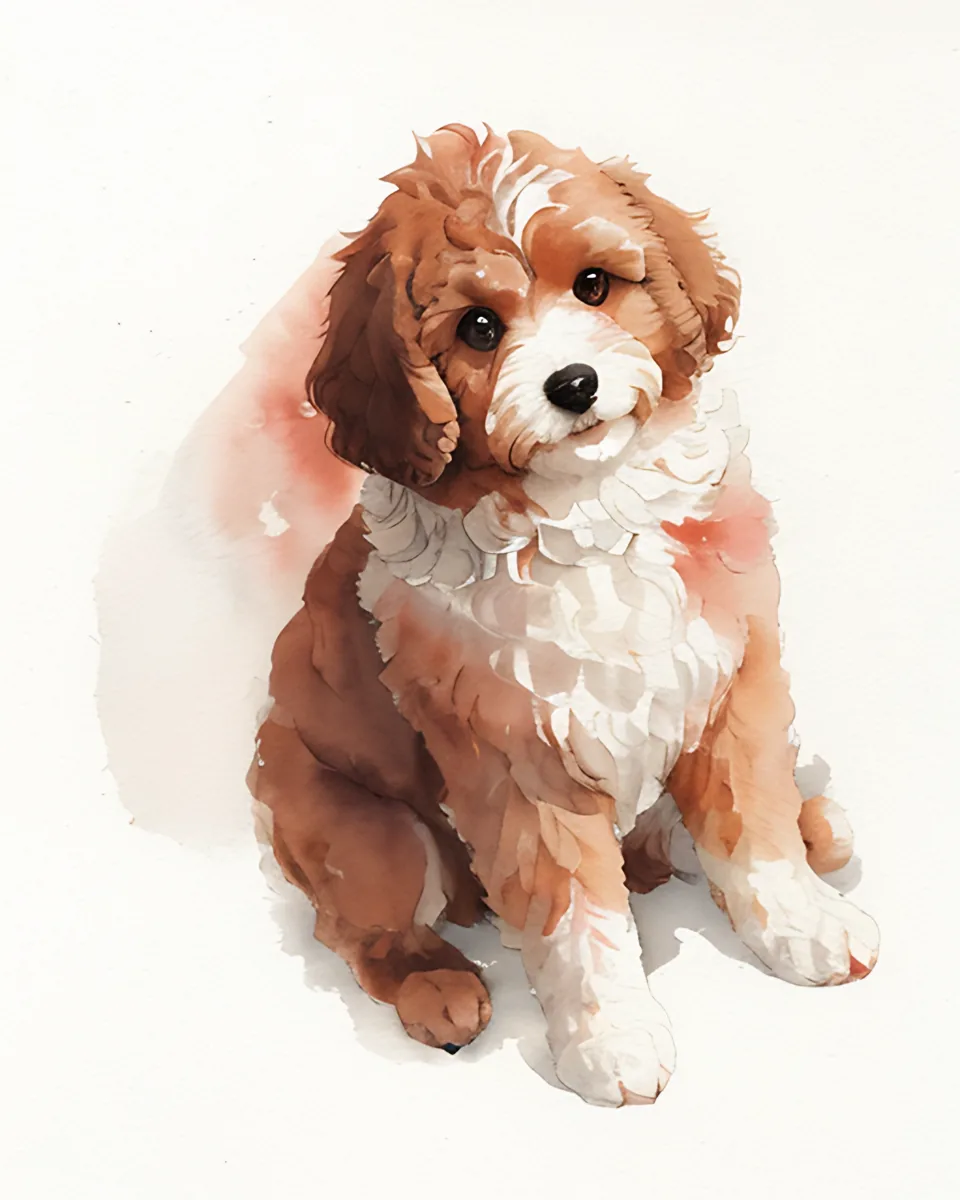
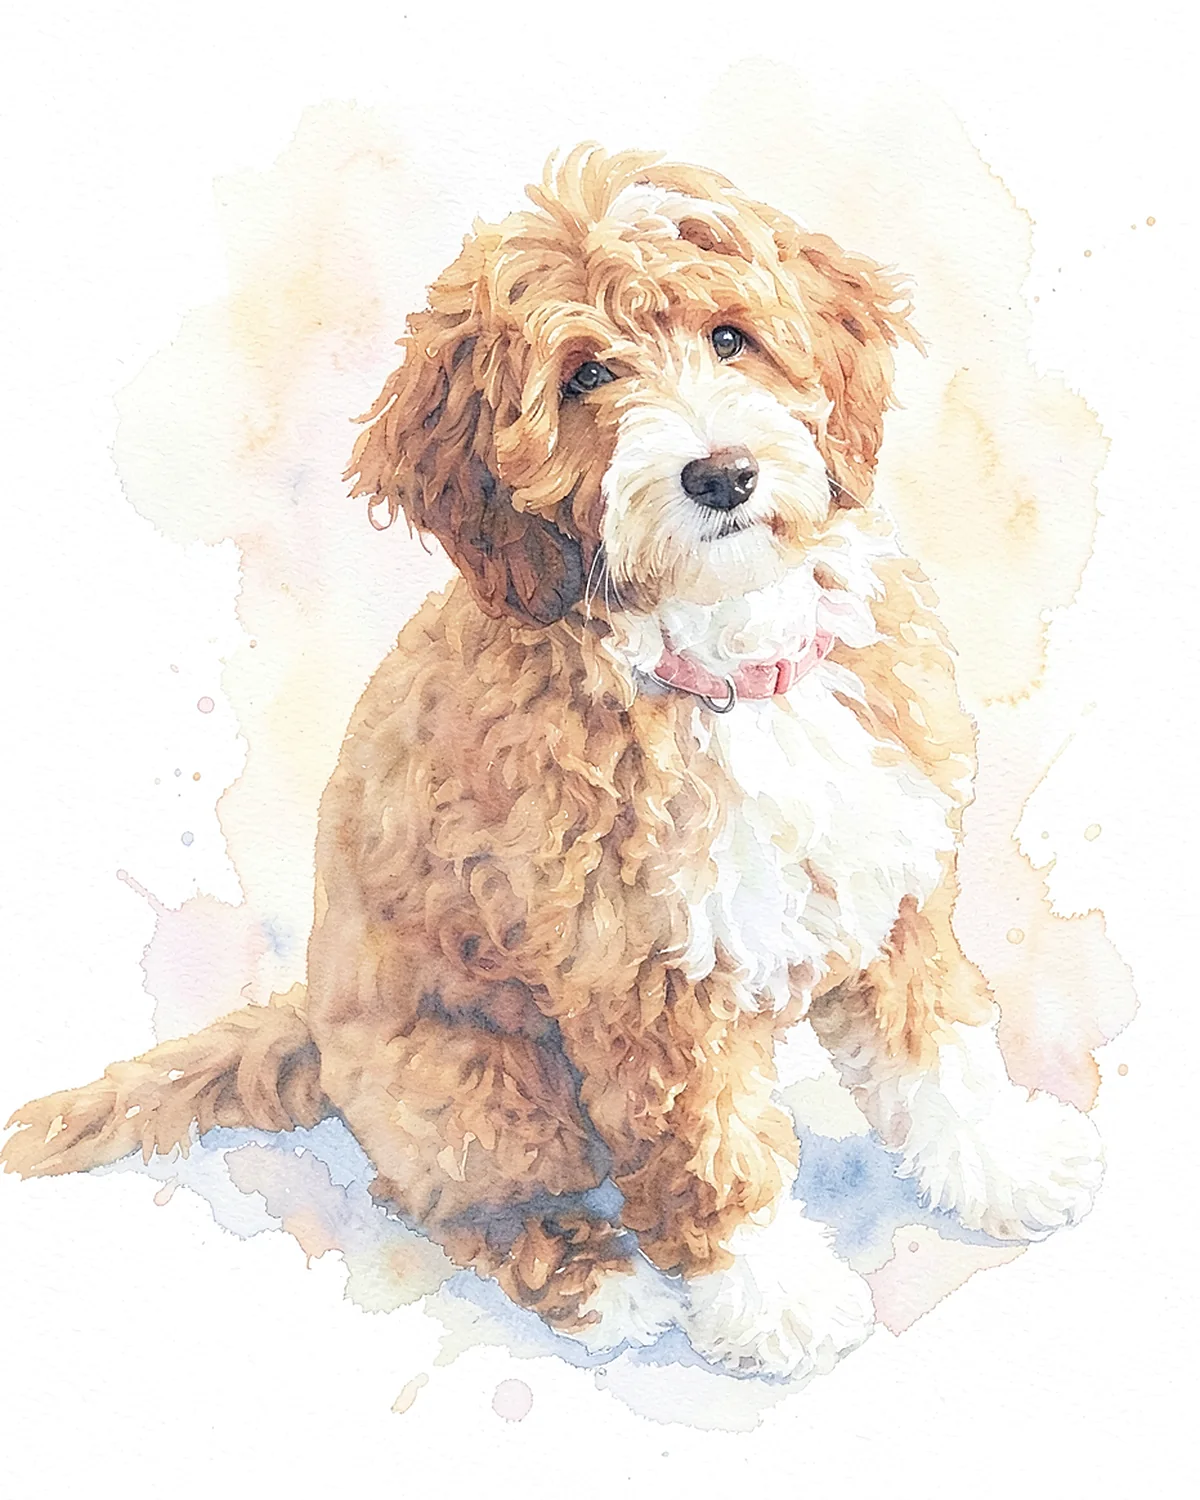
Gallery portraits 1-6 re-rendered with FLUX.2 klein
Old Master golden, pop-art frenchie, watercolor cavapoo, admiral husky,
storybook cavalier and charcoal beagle, each from the real source photo,
1200x1500 WebP.

Claude-Session: https://claude.ai/code/session_01Q1G9K9iUNWePoTgYQBX8an

diff --git a/web/public/samples/CREDITS.md b/web/public/samples/CREDITS.md
@@ -38,19 +38,21 @@ anyway. None are Unsplash+ photos. Local copies (4:5 crops) live in `web/scripts
 | admiral.webp | The Admiral | Beagle | beagle.jpg | Nathanaël Desmeules | https://unsplash.com/photos/527_3nFNAPo | legacy |
 | oil-classic.webp | Old Master | Labrador Retriever | labrador.jpg | Aniket Salve | https://unsplash.com/photos/IQ3FjY2Gdho | legacy |
 | pair-2-before.webp (photo), pair-2-after.webp | Watercolor | French Bulldog | french-bulldog.jpg | Eric Tan | https://unsplash.com/photos/p6qtH9kqjt8 | FLUX.2 klein |
-| watercolor.webp, gallery-2.webp | Watercolor / Pop Art | French Bulldog | french-bulldog.jpg | Eric Tan | https://unsplash.com/photos/p6qtH9kqjt8 | legacy |
+| watercolor.webp | Watercolor | French Bulldog | french-bulldog.jpg | Eric Tan | https://unsplash.com/photos/p6qtH9kqjt8 | legacy |
+| gallery-2.webp | Pop Art | French Bulldog | french-bulldog-sitting.jpg | Eric Tan | https://unsplash.com/photos/WqveMpe3QTA | FLUX.2 klein |
 | fine-line.webp | Fine Line | Labrador Retriever | labrador-2.jpg | Not identified yet (free Unsplash CDN image) | https://images.unsplash.com/photo-1761797732084-eed42f058516 | legacy |
 | pop-art.webp | Pop Art | Dachshund | dachshund.jpg | Alexandre Daoust | https://unsplash.com/photos/DoMqElrLS5M | legacy |
 | storybook.webp | Storybook | Poodle / Doodle puppy | doodle-puppy.jpg | Erick Lee Hodge | https://unsplash.com/photos/U8pgck1dgtQ | legacy |
 | botanical.webp | Botanical | Cavalier King Charles Spaniel | cavalier.jpg | Izabelly Marques | https://unsplash.com/photos/-d-q58LA1ds | legacy |
-| astronaut.webp, gallery-4.webp | Space Cadet / Admiral | Siberian Husky | husky.jpg | Elin Birgisdottir | https://unsplash.com/photos/cwwwHfTytSI | legacy |
+| astronaut.webp | Space Cadet | Siberian Husky | husky.jpg | Elin Birgisdottir | https://unsplash.com/photos/cwwwHfTytSI | legacy |
+| gallery-4.webp | The Admiral | Siberian Husky | husky.jpg | Elin Birgisdottir | https://unsplash.com/photos/cwwwHfTytSI | FLUX.2 klein |
 | charcoal.webp | Charcoal Study | Border Collie | border-collie-2.jpg | Chung Nguyen | https://unsplash.com/photos/kJlk-jW2nLI | legacy |
 | mid-century.webp, holiday.webp | Mid-Century / Holiday Cozy | Pembroke Welsh Corgi | corgi.jpg | Ivana La | https://unsplash.com/photos/tycZhR54Ddk | legacy |
 | pair-1-before.webp (photo), pair-1-after.webp | The Royal | Golden Retriever | golden-retriever.jpg | Faber Leonardo | https://unsplash.com/photos/ktujYJX35-E | FLUX.2 klein |
-| gallery-1.webp | Old Master | Golden Retriever | golden-retriever-2.jpg | Victor G | https://unsplash.com/photos/x5oPmHmY3kQ | legacy |
-| gallery-3.webp | Watercolor | Cavapoo | cavapoo.jpg | Leiada Krözjhen | https://unsplash.com/photos/7lahRWgD2qM | legacy |
-| gallery-5.webp | Storybook | Cavalier King Charles Spaniel | cavalier-3.jpg | Courtney Mihaka | https://unsplash.com/photos/8rdX9FraXug | legacy |
-| gallery-6.webp | Charcoal Study | Beagle (tricolour hound) | beagle-2.jpg | Jabez Rodarte | https://unsplash.com/photos/rxFw2zAaUi0 | legacy |
+| gallery-1.webp | Old Master | Golden Retriever | golden-retriever-2.jpg | Victor G | https://unsplash.com/photos/x5oPmHmY3kQ | FLUX.2 klein |
+| gallery-3.webp | Watercolor | Cavapoo | cavapoo.jpg | Leiada Krözjhen | https://unsplash.com/photos/7lahRWgD2qM | FLUX.2 klein |
+| gallery-5.webp | Storybook | Cavalier King Charles Spaniel | cavalier-3.jpg | Courtney Mihaka | https://unsplash.com/photos/8rdX9FraXug | FLUX.2 klein |
+| gallery-6.webp | Charcoal Study | Beagle (tricolour hound) | beagle-2.jpg | Jabez Rodarte | https://unsplash.com/photos/rxFw2zAaUi0 | FLUX.2 klein |
 
 ## Site-wide images made from these samples
 
